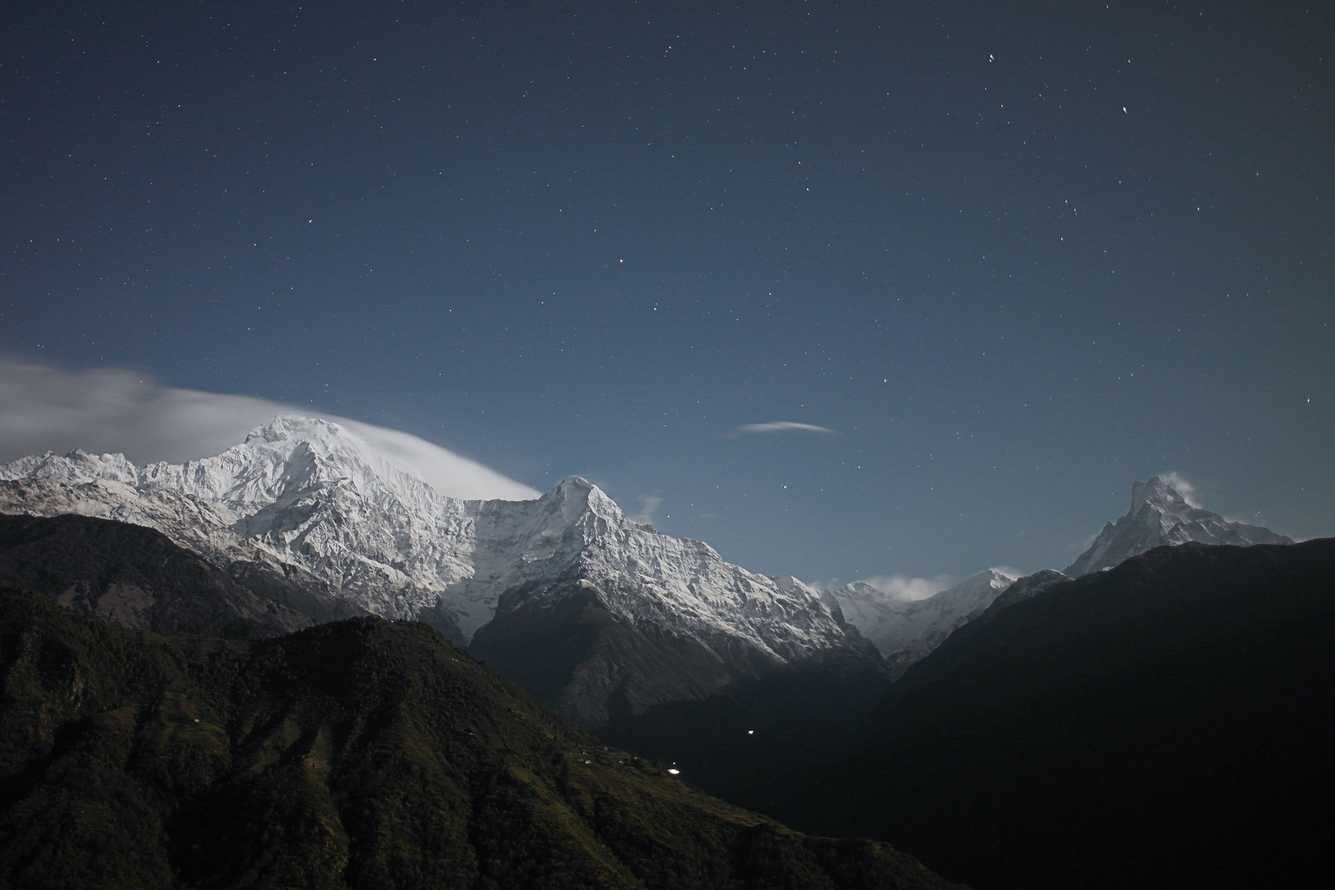
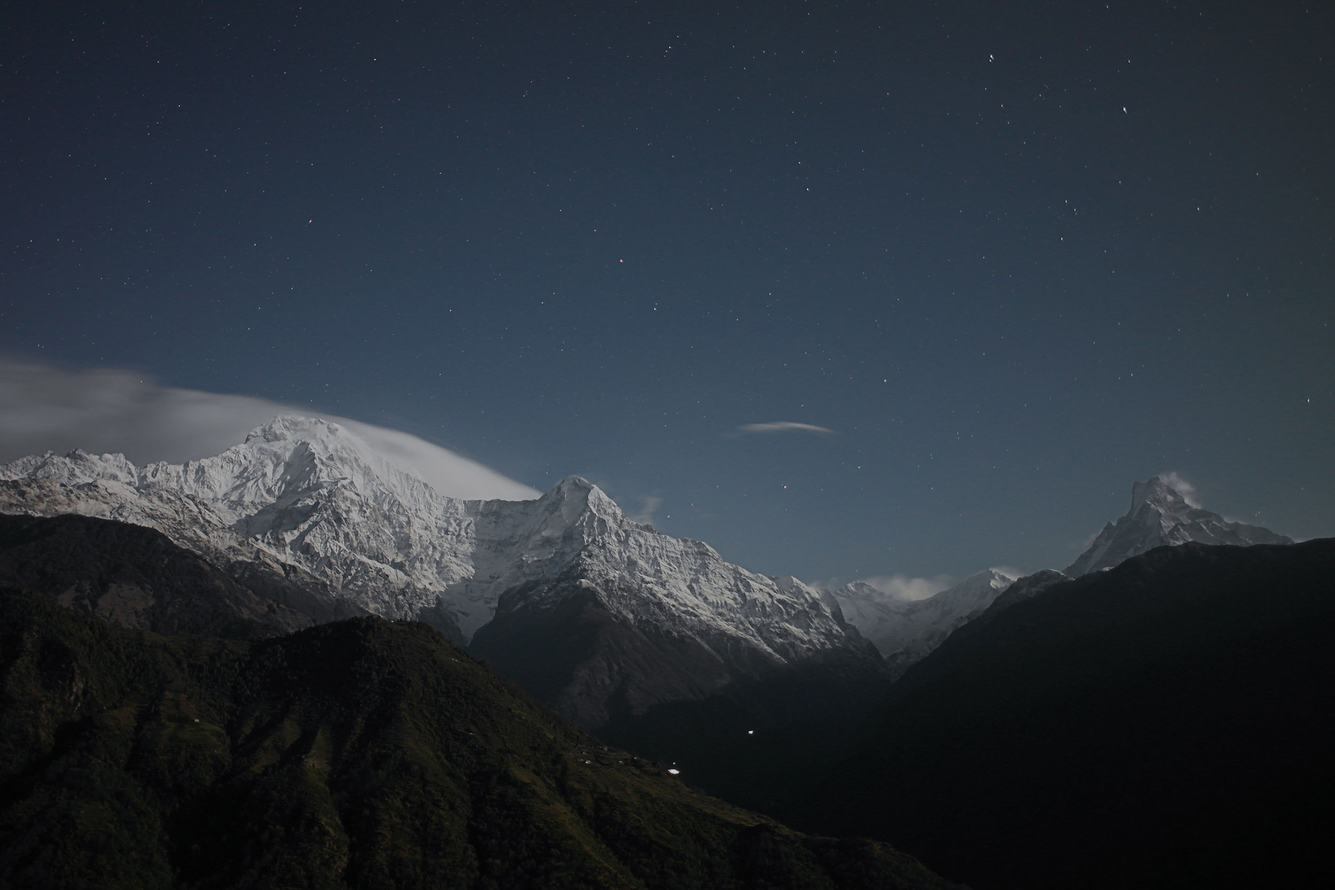
changed picture to be darker and fixed copyright

Changed region(s): [[0.0, 0.3119, 0.8424, 0.7487], [0.8424, 0.5303, 0.9048, 0.5927]]

diff --git a/index.html b/index.html
@@ -467,7 +467,7 @@
         <div class="container">
             <div class="row">
                 <div class="col-md-4">
-                    <span class="copyright">Copyright &copy; AlexTheChan.com 2014</span>
+                    <span class="copyright">Copyright &copy; AlexTheChan.com 2015</span>
                 </div>
 
                 <div class="col-md-4">
